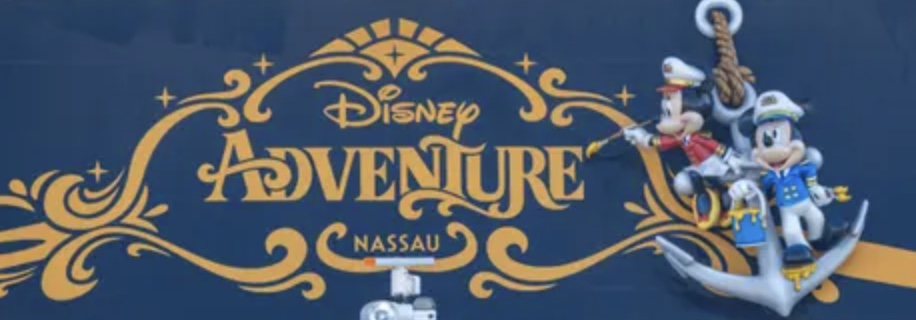
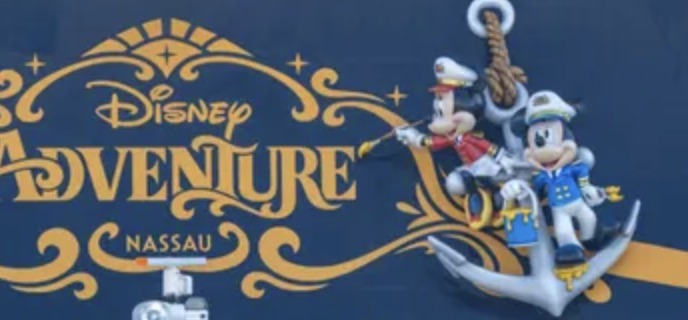
Tighten the Adventure ships-card crop so Mickey and Minnie stay visible.

diff --git a/ships/index.html b/ships/index.html
@@ -82,8 +82,8 @@
     background-position:center;
   }
   .ship-card-top.ship-card-photo.adventure{
-    background-image:url('/assets/images/disney-adventure-stern.jpg');
-    background-position:center;
+    background-image:url('/assets/images/disney-adventure-stern.jpg?v=2');
+    background-position:78% center;
   }
   .ship-card-top.ship-card-photo::after{display:none;}
   .ship-card-body{padding:16px 20px 20px;flex:1;display:flex;flex-direction:column;}
